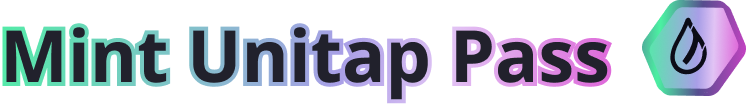
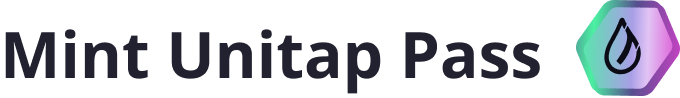
Mint NFT Page Header New Design

diff --git a/src/pages/nft/components/Header/Header.tsx b/src/pages/nft/components/Header/Header.tsx
@@ -4,17 +4,17 @@ import styled from 'styled-components/';
 const Spaceship = styled.img`
   position: absolute;
   right: 0;
-  transform: translate(12%, -37%);
+  transform: translate(-5%, -34%);
 `;
 
 const Header = () => {
   return (
-    <div className="header w-full h-[152px] bg-gray20 rounded-2xl flex flex-col justify-between items-start overflow-hidden relative p-8 mb-4">
+    <div className="header w-full h-[202px] bg-gray20 rounded-2xl flex flex-col gap-5 justify-end items-start overflow-hidden relative pl-6 pb-5 mb-4">
       <div className="header-top z-10 flex items-center h-auto">
-        <img className="gas-tap h-auto w-80 sm:w-100 mb-1 mr-4" src="assets/images/nft/mint-header.png" />
+        <img className="gas-tap h-[48px] w-auto sm:w-auto" src="assets/images/nft/mint-header.png" />
       </div>
 
-      <p className="gradient-text z-10 text-2xl text-gradient-primary">A VIP pass for Unitap</p>
+      <p className="gradient-text z-10 text-white">Unitap Pass is a VIP pass for Unitap.</p>
 
       <Spaceship className="z-0" src="assets/images/nft/nft-header-spaceship.svg" />
     </div>
